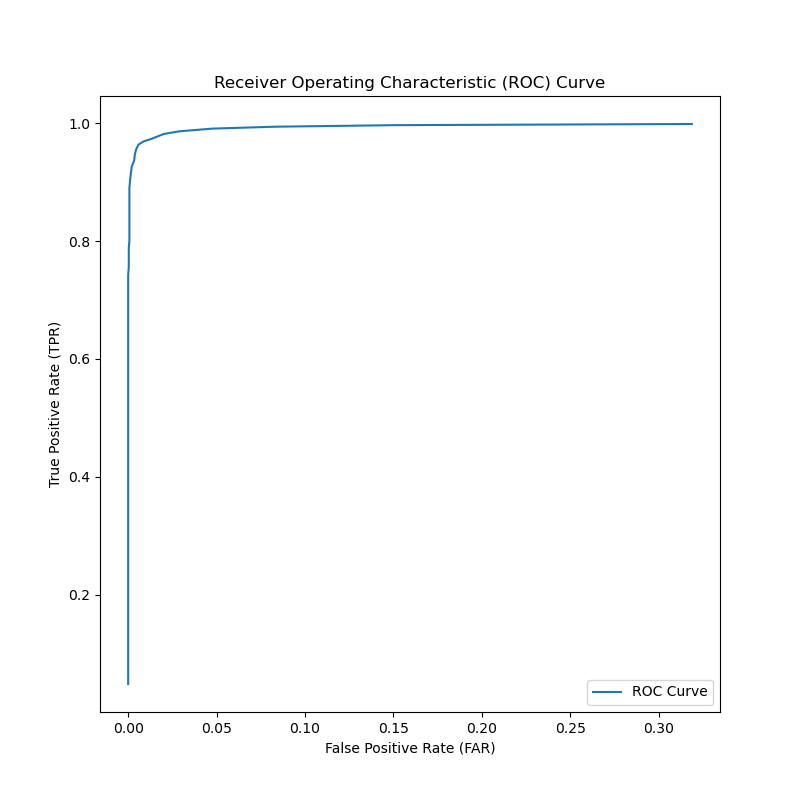
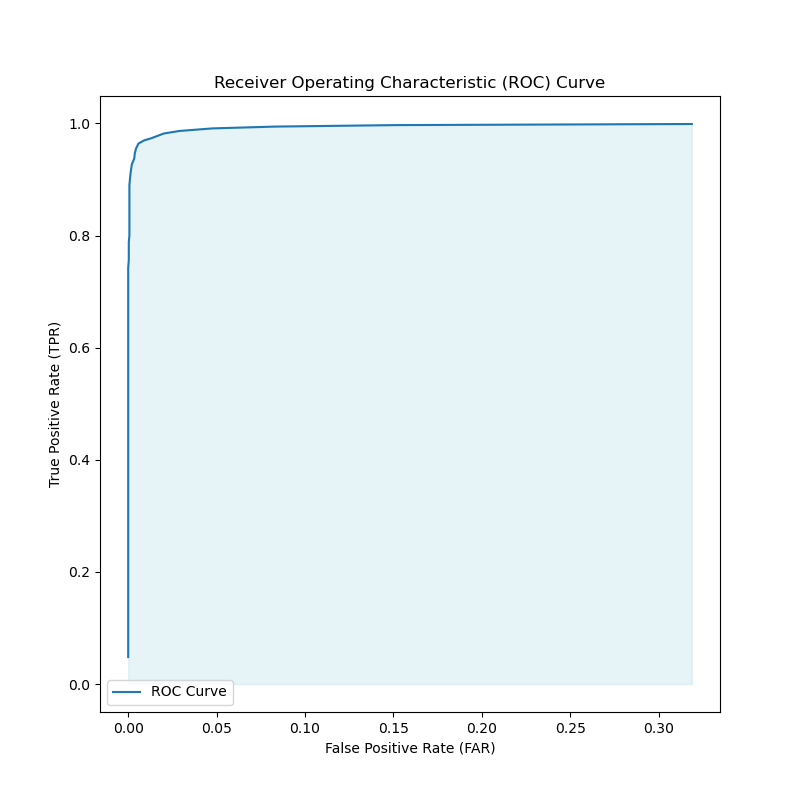
insert mod in curva roc

diff --git a/LINUX/no_PCA/single_training/verifica_close_set/src/roc.py b/LINUX/no_PCA/single_training/verifica_close_set/src/roc.py
@@ -1,27 +1,40 @@
 import pandas as pd
 import matplotlib.pyplot as plt
+import numpy as np
 
 # Carica il tuo file CSV
 df = pd.read_csv('./output/risultati.csv')
 
 # Estrai le colonne di interesse
 far_values = df['far']
-frr_values = df['frr']
-
-# Calcola True Positive Rate (TPR) o Sensitivity (1-FRR)
-#tpr_values = 1 - frr_values #GAR
 tpr_values = df['Recall']
+
+# Funzione per calcolare l'area sotto la curva ROC
+def calculate_auc(far, tpr):
+    n = len(far)
+    auc = np.sum((far[1:] - far[:-1]) * (tpr[:-1] + tpr[1:]) / 2)
+    return auc
+
+# Calcola l'area sotto la curva ROC
+area_under_curve = calculate_auc(far_values, tpr_values)
+
 # Plotta la curva ROC
 plt.figure(figsize=(8, 8))
 plt.plot(far_values, tpr_values, label='ROC Curve')  
 
+# Evidenzia l'area sotto la curva ROC
+plt.fill_between(far_values, tpr_values, color='lightblue', alpha=0.3)
 
-
+# Aggiungi il valore dell'area direttamente nel grafico
+#plt.text(0.6, 0.3, f'AUC = {area_under_curve:.2f}', fontsize=12, color='darkblue')
 
 # Etichette e titoli
 plt.title('Receiver Operating Characteristic (ROC) Curve')
 plt.xlabel('False Positive Rate (FAR)')
 plt.ylabel('True Positive Rate (TPR)')
 plt.legend()
+
+# Salva il grafico come immagine
 plt.savefig('./output/ROC.png')
 plt.close()
+

diff --git a/LINUX/PCA/verifica_close_set/src/roc.py b/LINUX/PCA/verifica_close_set/src/roc.py
@@ -15,7 +15,7 @@ def roc(path1,path2):
     # Plotta la curva ROC
     plt.figure(figsize=(8, 8))
     plt.plot(far_values, tpr_values, label='ROC Curve')  
-
+    plt.fill_between(far_values, tpr_values, color='lightblue', alpha=0.3)
 
 
 

diff --git a/LINUX/no_PCA/5-cross-validation/verifica_close_set/src/roc.py b/LINUX/no_PCA/5-cross-validation/verifica_close_set/src/roc.py
@@ -15,7 +15,7 @@ tpr_values = 1 - frr_values
 plt.figure(figsize=(8, 8))
 plt.plot(far_values, tpr_values, label='ROC Curve')  
 
-
+plt.fill_between(far_values, tpr_values, color='lightblue', alpha=0.3)
 
 
 # Etichette e titoli

diff --git a/LINUX/no_PCA/5-cross-validation/verifica_close_set/src/det.py b/LINUX/no_PCA/5-cross-validation/verifica_close_set/src/det.py
@@ -20,4 +20,4 @@ plt.xlabel('False Positive Rate (FAR)')
 plt.ylabel('False Reject Rate (FRR)')
 plt.legend()
 plt.savefig('./output/DET.png')
-plt.close()
+plt.close() 
